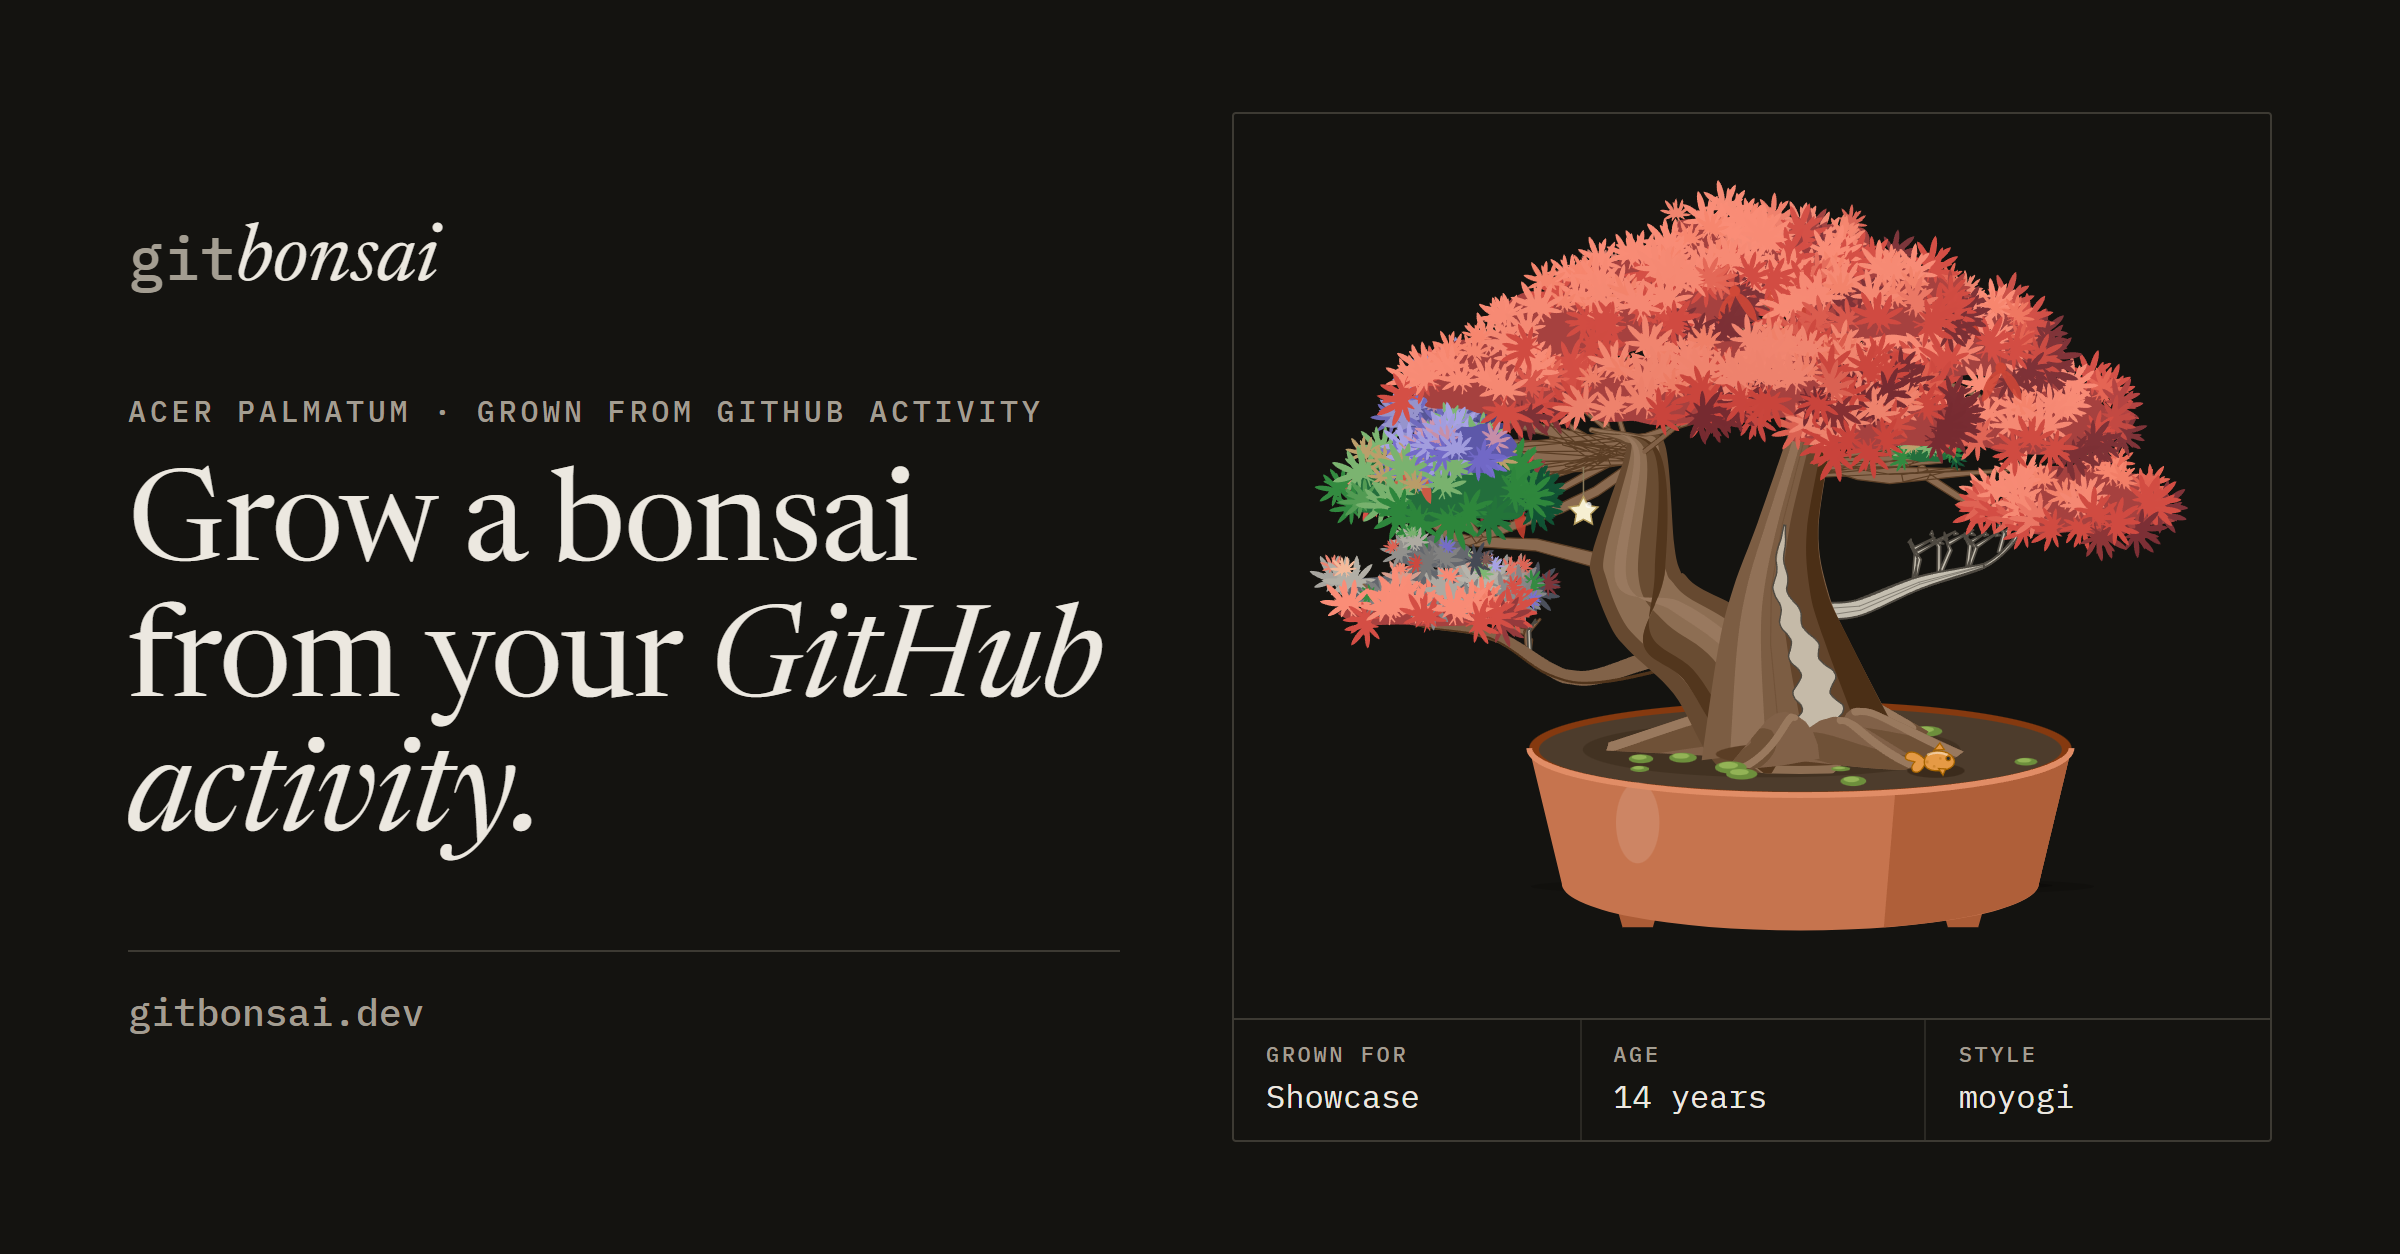
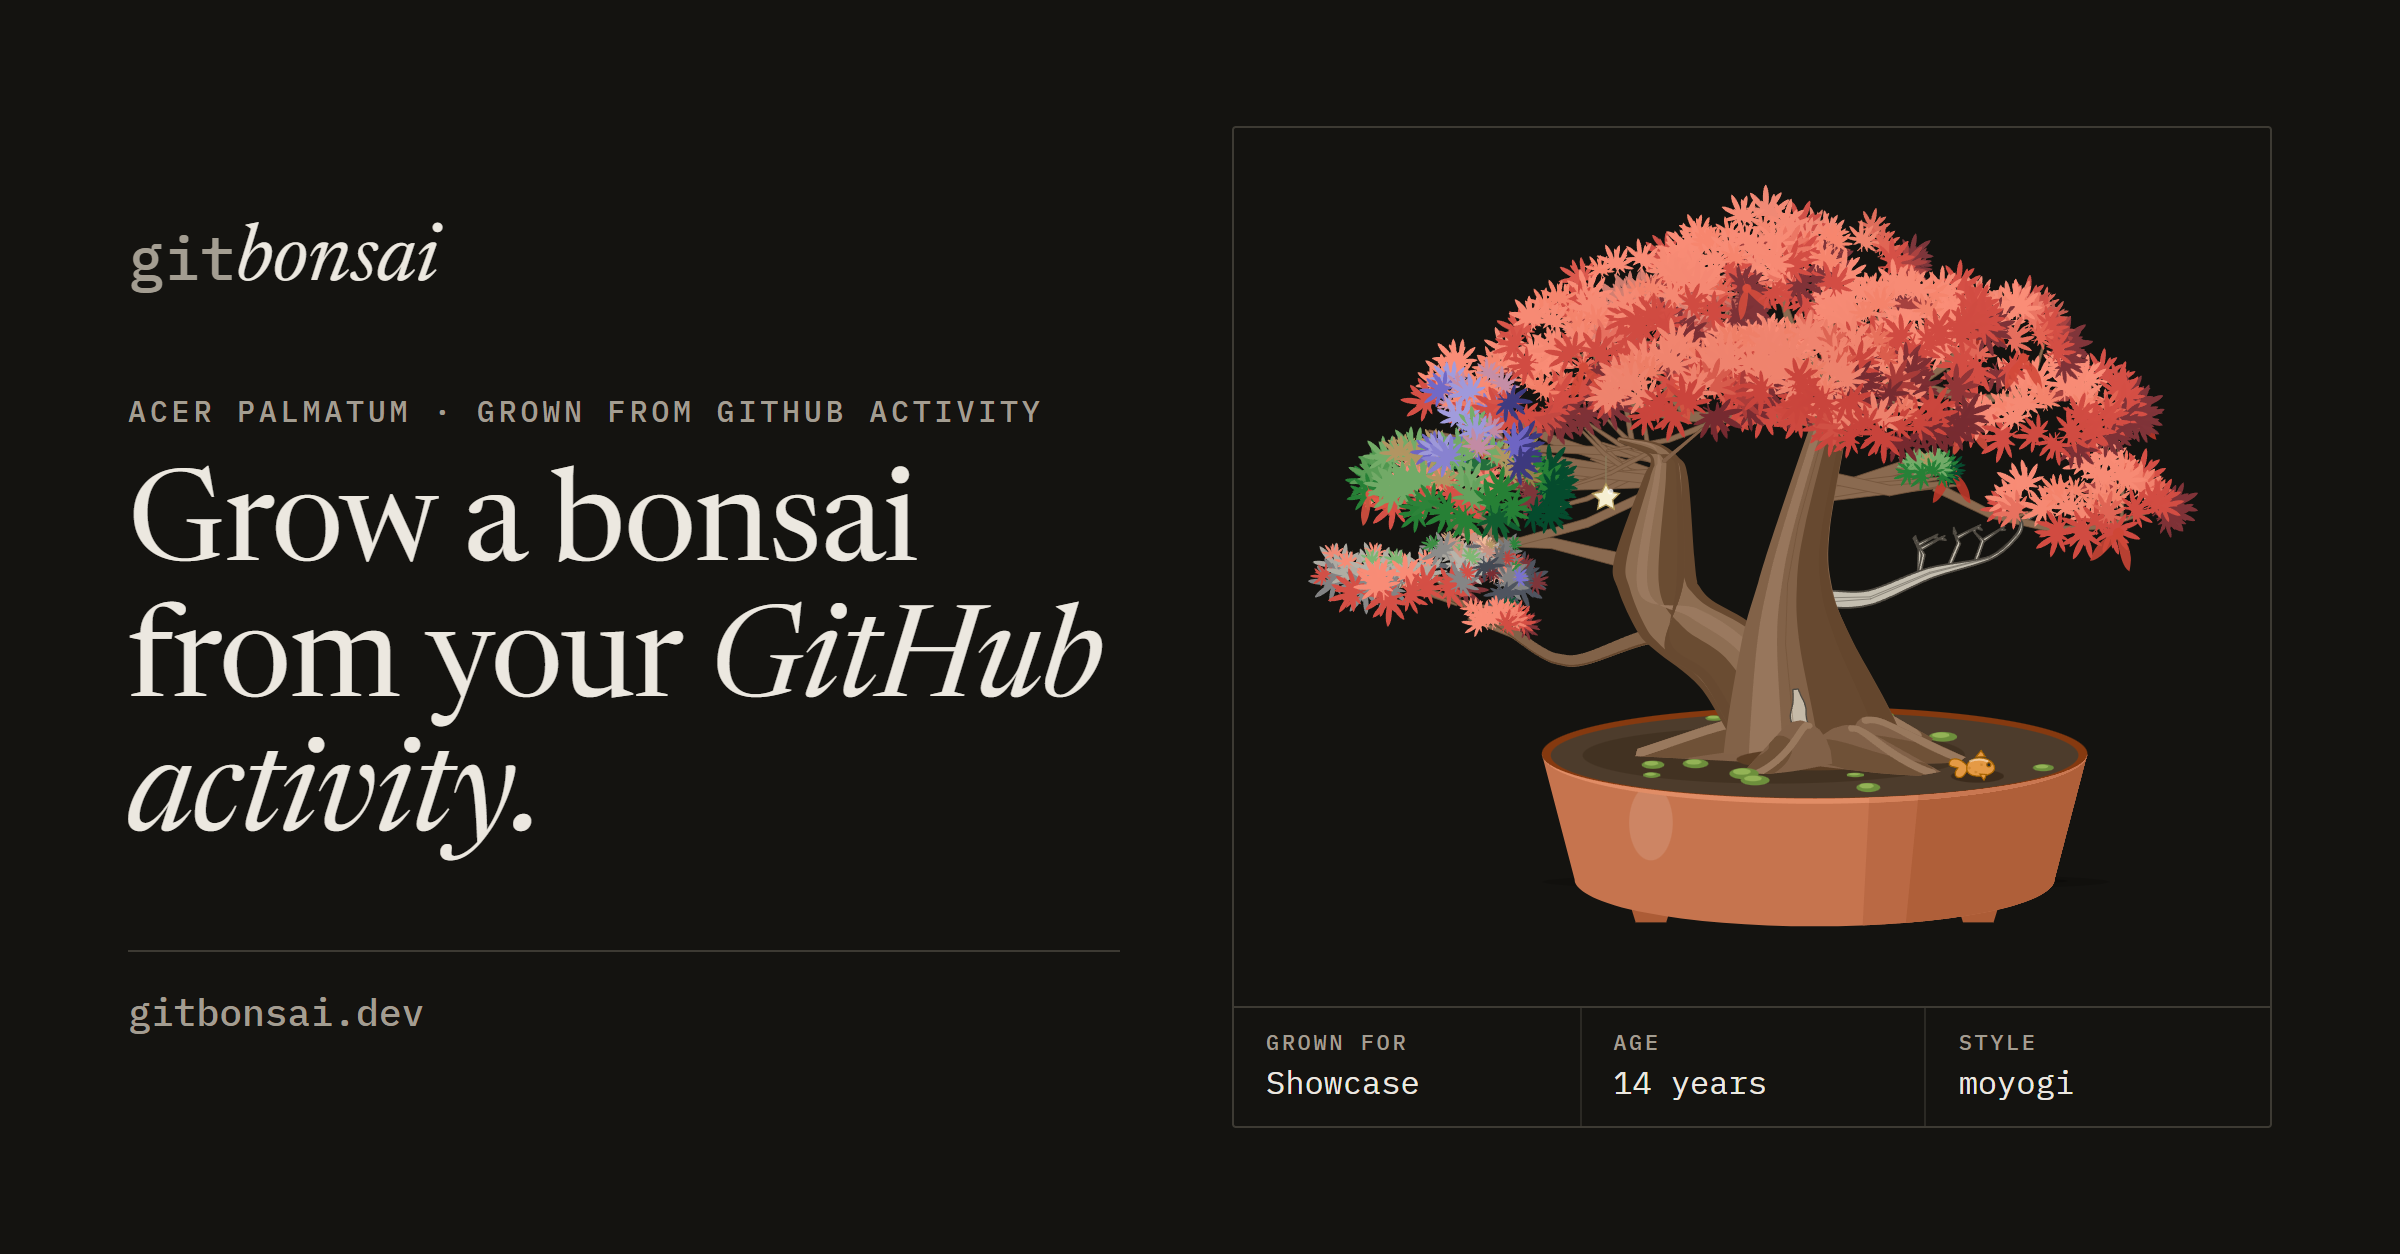
site card and text for 0.5.1 - the link preview shows the 0.5.1 showcase tree, ?v=3 so caches refresh - torvalds' girth link says 16 years, as the readme does

diff --git a/site/index.html b/site/index.html
@@ -11,7 +11,7 @@
 <meta property="og:url" content="https://gitbonsai.dev/">
 <meta property="og:title" content="gitbonsai: grow a bonsai from your GitHub activity">
 <meta property="og:description" content="An animated SVG for a profile README. A newcomer is a thin sprout; years of work make it short, thick and wide, the way a prize bonsai is. Preview your own tree, then add it in three steps.">
-<meta property="og:image" content="https://gitbonsai.dev/og.png?v=2">
+<meta property="og:image" content="https://gitbonsai.dev/og.png?v=3">
 <meta property="og:image:width" content="2400">
 <meta property="og:image:height" content="1254">
 <meta property="og:image:alt" content="The gitbonsai wordmark and the line Grow a bonsai from your GitHub activity, next to a fourteen-year-old Japanese maple bonsai in a terracotta pot, on a plate">
@@ -122,7 +122,7 @@
             <div><dt>Low limbs</dt><dd>Earlier eras, oldest lowest</dd></div>
             <div><dt>Bronze tips</dt><dd>New growth from last week</dd></div>
           </dl>
-          <a class="seeit" href="#herocanvas" data-plate="torvalds">See 15 years of girth on @torvalds</a>
+          <a class="seeit" href="#herocanvas" data-plate="torvalds">See 16 years of girth on @torvalds</a>
         </article>
         <article class="theme">
           <h3>Pauses and changes</h3>

diff --git a/site/exhibition.html b/site/exhibition.html
@@ -11,7 +11,7 @@
 <meta property="og:url" content="https://gitbonsai.dev/exhibition">
 <meta property="og:title" content="The gitbonsai exhibition: trees shown by their owners">
 <meta property="og:description" content="Bonsai grown from GitHub activity, put on show by their owners. Grow yours and show it.">
-<meta property="og:image" content="https://gitbonsai.dev/og.png?v=2">
+<meta property="og:image" content="https://gitbonsai.dev/og.png?v=3">
 <meta property="og:image:width" content="2400">
 <meta property="og:image:height" content="1254">
 <meta property="og:image:alt" content="The gitbonsai wordmark and the line Grow a bonsai from your GitHub activity, next to a fourteen-year-old Japanese maple bonsai in a terracotta pot, on a plate">
